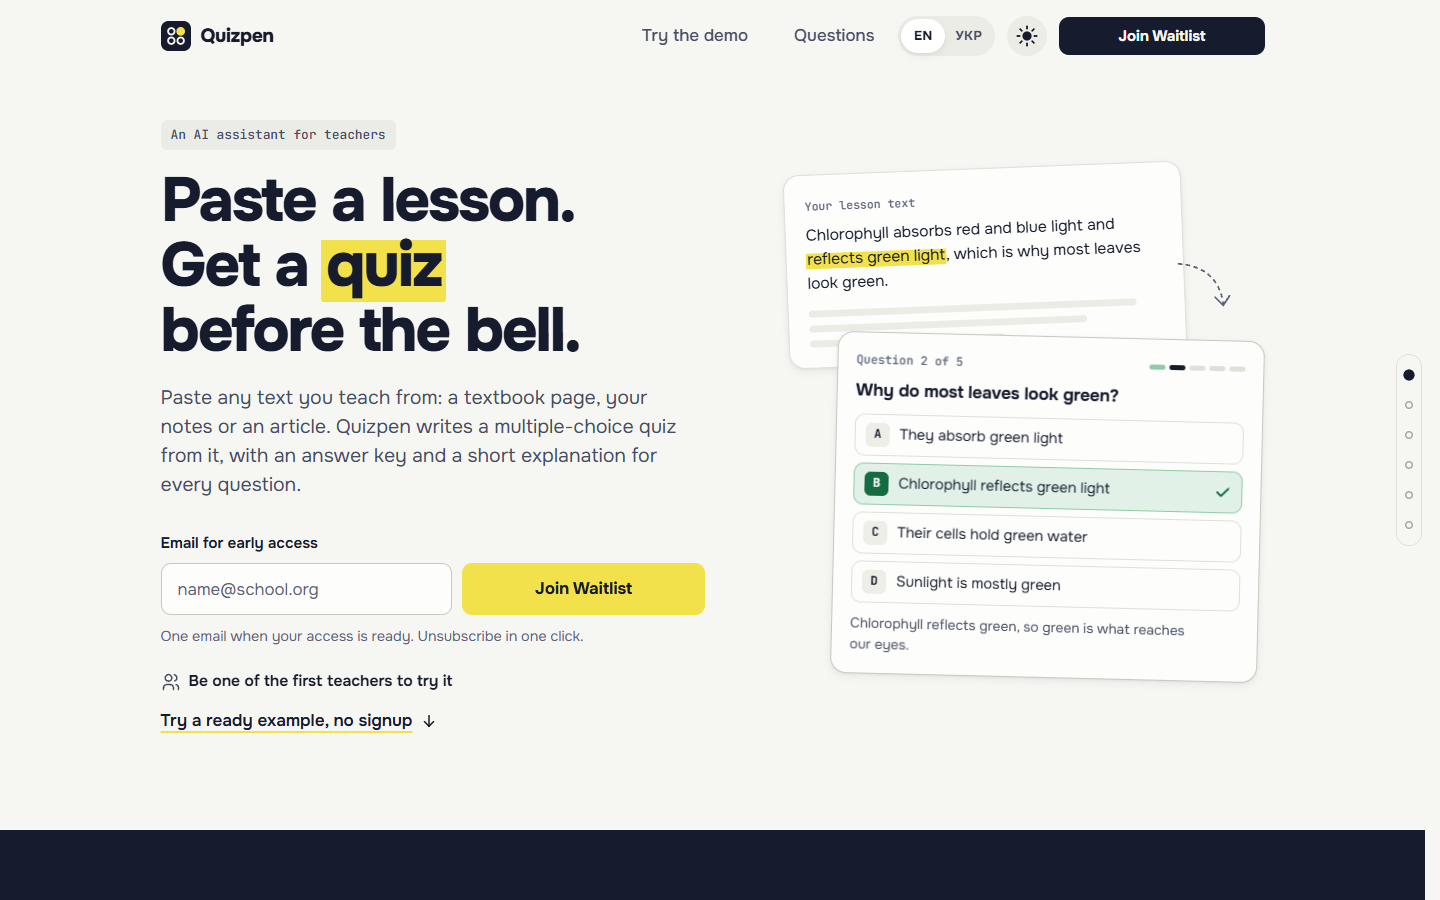
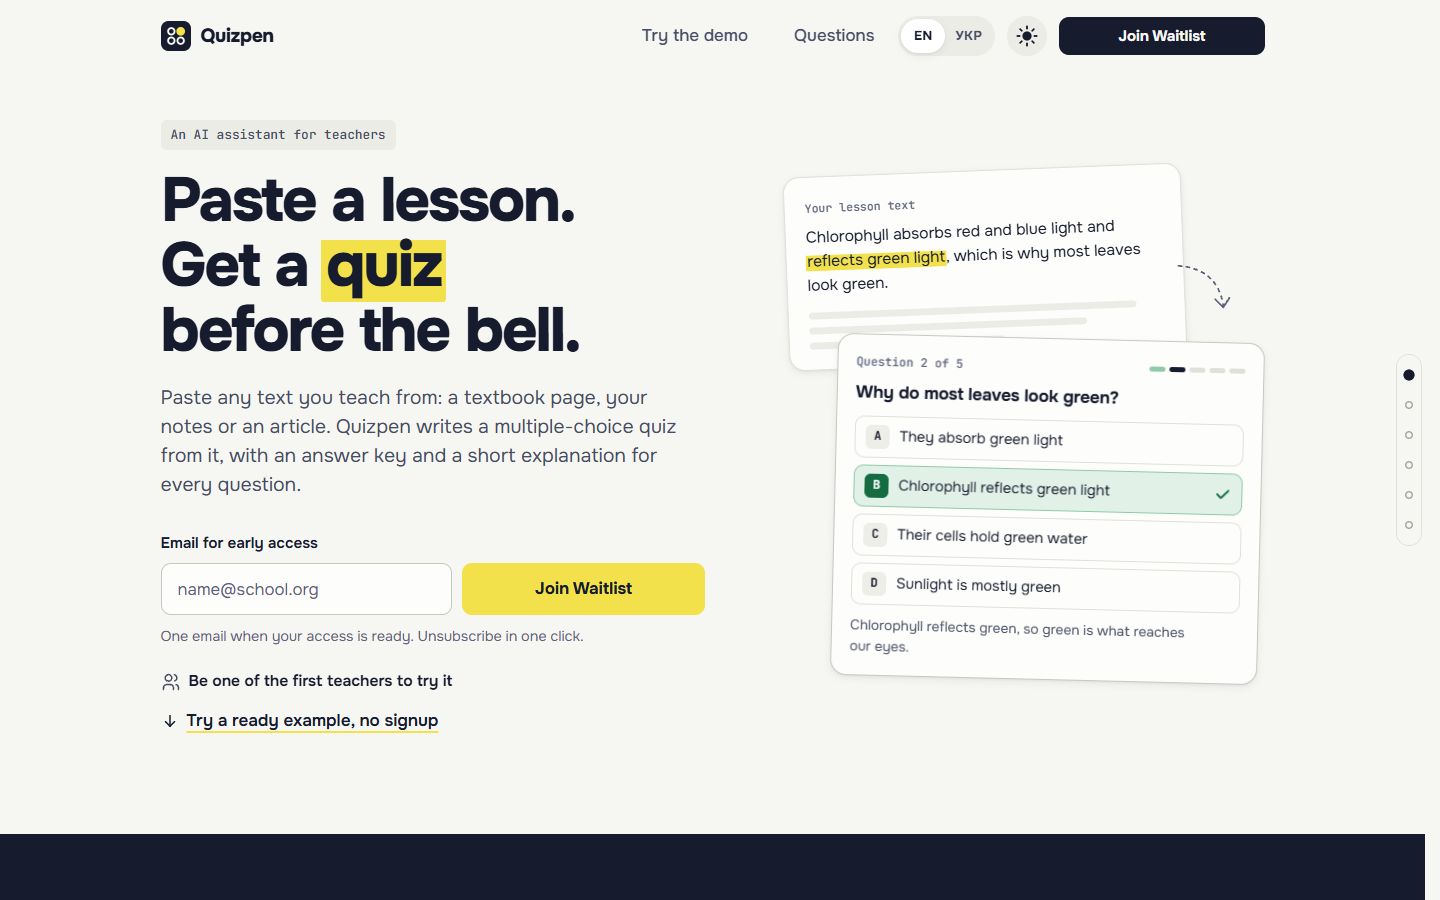
Screen readers skip the reserved-space ghosts; the try-link arrow leads its text; cache version 2026-11-20c; fresh screenshots

diff --git a/web/styles.css b/web/styles.css
@@ -319,7 +319,9 @@ a:hover { text-decoration-thickness: 2px; }
   transition: text-decoration-color 160ms var(--ease-out);
 }
 .try-link:hover { text-decoration-color: var(--ink); }
-.try-link .icon { width: 18px; height: 18px; transform: rotate(90deg); }
+/* The arrow leads the text (like the counter icon), so it never drifts when the label changes language or wraps. */
+.try-link { align-items: flex-start; }
+.try-link .icon { width: 18px; height: 18px; transform: rotate(90deg); order: -1; flex: none; margin-top: calc((1lh - 18px) / 2); }
 .counter:not(.is-ready) { visibility: hidden; }
 @media (prefers-reduced-motion: no-preference) {
   .counter.is-ready { animation: fade-up 400ms var(--ease-out) both; }
@@ -906,7 +908,9 @@ html.theme-fade .tt * { transition: transform 280ms var(--ease-out), opacity 200
    width of the longest one, the same width the ui.js stack gets later. */
 [data-rsv] { display: inline-flex; flex-direction: column; align-items: center; }
 /* Header nav links keep ::after for the current-section underline (nav.css), so their ghost is ::before. */
-[data-rsv]:not(.nav a)::after, .nav a[data-rsv]::before { content: attr(data-rsv); white-space: pre; height: 0; overflow: hidden; visibility: hidden; }
+/* The second content value gives the ghost empty alternative text, so screen readers never read it
+   (browsers without that syntax keep the first value). */
+[data-rsv]:not(.nav a)::after, .nav a[data-rsv]::before { content: attr(data-rsv); content: attr(data-rsv) / ""; white-space: pre; height: 0; overflow: hidden; visibility: hidden; }
 /* The footer note may wrap on a phone: its ghost wraps too and only sets the width of the longer language
    (element-qualified to outrank the white-space: pre of the generic ghost above). */
 .site-footer p[data-rsv] { align-items: stretch; }
@@ -919,8 +923,8 @@ html.theme-fade .tt * { transition: transform 280ms var(--ease-out), opacity 200
    the height of the taller language at any width. */
 [data-rsv-en] { display: flex; }
 [data-rsv-en]::before, [data-rsv-en]::after { order: -1; flex: none; width: 100%; margin-right: -100%; visibility: hidden; }
-[data-rsv-en]::before { content: attr(data-rsv-en); }
-[data-rsv-en]::after { content: attr(data-rsv-uk); }
+[data-rsv-en]::before { content: attr(data-rsv-en); content: attr(data-rsv-en) / ""; }
+[data-rsv-en]::after { content: attr(data-rsv-uk); content: attr(data-rsv-uk) / ""; }
 /* The headline (text in an inner span, so the <mark> stays inline): each ghost is set in its own language's size
    and measure (the UK headline is smaller and wider), so the box holds the taller real layout in either language. */
 .hero h1[data-rsv-en]::before, .hero h1[data-rsv-en]::after { letter-spacing: -0.035em; }

diff --git a/web/sw.js b/web/sw.js
@@ -9,7 +9,7 @@
 'use strict';
 
 // Bump on every deploy so returning visitors get a fresh, consistent shell.
-var VERSION = '2026-11-20b';
+var VERSION = '2026-11-20c';
 var CACHE = 'qp-shell-' + VERSION;
 var NAV_TIMEOUT_MS = 3000;
 var SHELL = [
